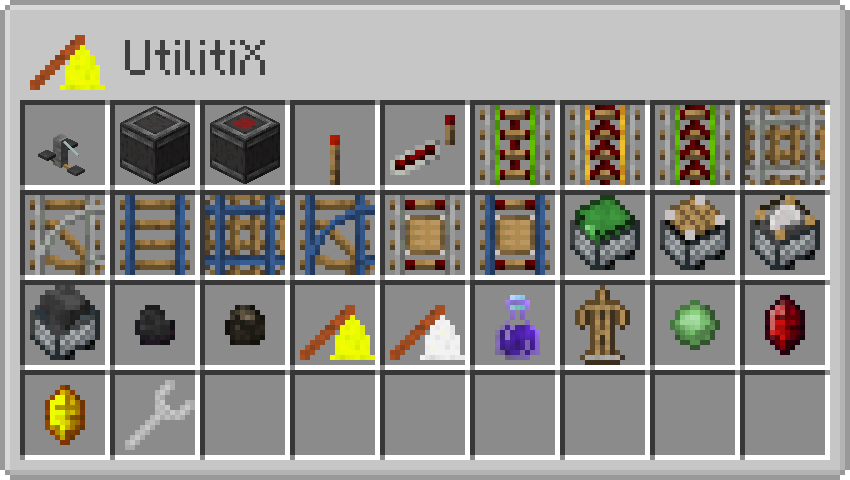
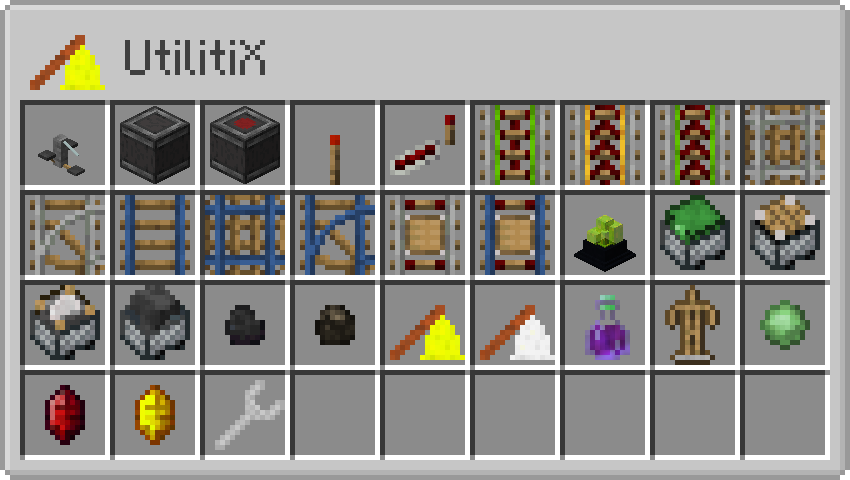
minor improvements to xp crystal

diff --git a/src/main/java/de/melanx/utilitix/content/experiencecrystal/BlockExperienceCrystal.java b/src/main/java/de/melanx/utilitix/content/experiencecrystal/BlockExperienceCrystal.java
@@ -1,8 +1,10 @@
 package de.melanx.utilitix.content.experiencecrystal;
 
 import de.melanx.utilitix.registration.ModBlocks;
+import io.github.noeppi_noeppi.libx.block.DirectionShape;
 import io.github.noeppi_noeppi.libx.mod.ModX;
 import io.github.noeppi_noeppi.libx.mod.registration.BlockGUI;
+import net.minecraft.block.Block;
 import net.minecraft.block.BlockState;
 import net.minecraft.client.gui.ScreenManager;
 import net.minecraft.client.renderer.RenderType;
@@ -10,6 +12,9 @@ import net.minecraft.client.renderer.RenderTypeLookup;
 import net.minecraft.entity.Entity;
 import net.minecraft.entity.item.ExperienceOrbEntity;
 import net.minecraft.inventory.container.ContainerType;
+import net.minecraft.item.BlockItemUseContext;
+import net.minecraft.state.StateContainer;
+import net.minecraft.state.properties.BlockStateProperties;
 import net.minecraft.util.ResourceLocation;
 import net.minecraft.util.math.BlockPos;
 import net.minecraft.util.math.shapes.ISelectionContext;
@@ -19,10 +24,11 @@ import net.minecraft.world.IBlockReader;
 import net.minecraft.world.World;
 
 import javax.annotation.Nonnull;
+import javax.annotation.Nullable;
 import java.util.function.Consumer;
 
 public class BlockExperienceCrystal extends BlockGUI<TileExperienceCrystal, ContainerExperienceCrystal> {
-    private static final VoxelShape SHAPE = VoxelShapes.or(
+    private static final DirectionShape SHAPE = new DirectionShape(VoxelShapes.or(
             makeCuboidShape(1, 0, 1, 15, 1, 15),
             makeCuboidShape(2, 1, 2, 14, 2, 14),
             makeCuboidShape(3, 2, 3, 13, 6, 13),
@@ -33,7 +39,7 @@ public class BlockExperienceCrystal extends BlockGUI<TileExperienceCrystal, Cont
             makeCuboidShape(4, 6, 4, 8, 12, 8),
             makeCuboidShape(5, 7.5, 9, 7, 13, 11),
             makeCuboidShape(4.5, 5.5, 8.5, 7.5, 7.5, 11.5)
-    );
+    ));
 
     public BlockExperienceCrystal(ModX mod, ContainerType<ContainerExperienceCrystal> containertype, Properties properties) {
         super(mod, TileExperienceCrystal.class, containertype, properties);
@@ -43,24 +49,6 @@ public class BlockExperienceCrystal extends BlockGUI<TileExperienceCrystal, Cont
     public void registerClient(ResourceLocation id, Consumer<Runnable> defer) {
         ScreenManager.registerFactory(ModBlocks.experienceCrystal.container, ScreenExperienceCrystal::new);
         RenderTypeLookup.setRenderLayer(this, RenderType.getTranslucent());
-    }
-
-    @Override
-    public void onReplaced(@Nonnull BlockState state, @Nonnull World world, @Nonnull BlockPos pos, @Nonnull BlockState newState, boolean isMoving) {
-        if (!world.isRemote) {
-            while (true) {
-                TileExperienceCrystal tile = this.getTile(world, pos);
-                int xp = Math.min(tile.getXp(), Short.MAX_VALUE);
-                if (xp <= 0) {
-                    break;
-                }
-
-                tile.subtractXp(xp);
-                world.addEntity(new ExperienceOrbEntity(world, pos.getX() + world.rand.nextDouble(), pos.getY() + world.rand.nextDouble(), pos.getZ() + world.rand.nextDouble(), xp));
-            }
-        }
-
-        super.onReplaced(state, world, pos, newState, isMoving);
     }
 
     @SuppressWarnings("deprecation")
@@ -80,10 +68,21 @@ public class BlockExperienceCrystal extends BlockGUI<TileExperienceCrystal, Cont
         }
     }
 
+    @Nullable
+    @Override
+    public BlockState getStateForPlacement(@Nonnull BlockItemUseContext context) {
+        return this.getDefaultState().with(BlockStateProperties.HORIZONTAL_FACING, context.getPlacementHorizontalFacing());
+    }
+
+    @Override
+    protected void fillStateContainer(@Nonnull StateContainer.Builder<Block, BlockState> builder) {
+        builder.add(BlockStateProperties.HORIZONTAL_FACING);
+    }
+
     @SuppressWarnings("deprecation")
     @Nonnull
     @Override
     public VoxelShape getShape(@Nonnull BlockState state, @Nonnull IBlockReader world, @Nonnull BlockPos pos, @Nonnull ISelectionContext context) {
-        return SHAPE;
+        return SHAPE.getShape(state.get(BlockStateProperties.HORIZONTAL_FACING));
     }
 }

diff --git a/src/main/java/de/melanx/utilitix/registration/ModBlocks.java b/src/main/java/de/melanx/utilitix/registration/ModBlocks.java
@@ -20,10 +20,12 @@ import net.minecraft.block.AbstractBlock;
 import net.minecraft.block.Block;
 import net.minecraft.block.Blocks;
 import net.minecraft.block.material.Material;
+import net.minecraft.block.material.MaterialColor;
 import net.minecraft.state.Property;
 import net.minecraft.state.properties.BlockStateProperties;
 import net.minecraft.state.properties.RailShape;
 import net.minecraft.util.Direction;
+import net.minecraftforge.common.ToolType;
 
 import javax.annotation.Nonnull;
 
@@ -45,5 +47,5 @@ public class ModBlocks {
     public static final Block reinforcedFilterRail = new BlockFilterRail(UtilitiX.getInstance(), true, AbstractBlock.Properties.from(Blocks.RAIL));
     public static final Block pistonControllerRail = new BlockPistonControllerRail(UtilitiX.getInstance(), false, AbstractBlock.Properties.from(Blocks.ACTIVATOR_RAIL)) { @Nonnull @Override public Property<RailShape> getShapeProperty() { return BlockStateProperties.RAIL_SHAPE_STRAIGHT; }};
     public static final Block reinforcedPistonControllerRail = new BlockPistonControllerRail(UtilitiX.getInstance(), true, AbstractBlock.Properties.from(Blocks.ACTIVATOR_RAIL)) { @Nonnull @Override public Property<RailShape> getShapeProperty() { return ModProperties.RAIL_SHAPE_FLAT_STRAIGHT; }};
-    public static final BlockGUI<TileExperienceCrystal, ContainerExperienceCrystal> experienceCrystal = new BlockExperienceCrystal(UtilitiX.getInstance(), ContainerBase.createContainerType(ContainerExperienceCrystal::new), AbstractBlock.Properties.create(Material.ROCK));
+    public static final BlockGUI<TileExperienceCrystal, ContainerExperienceCrystal> experienceCrystal = new BlockExperienceCrystal(UtilitiX.getInstance(), ContainerBase.createContainerType(ContainerExperienceCrystal::new), AbstractBlock.Properties.create(Material.ROCK, MaterialColor.BLACK).hardnessAndResistance(3, 7).harvestTool(ToolType.PICKAXE));
 }

diff --git a/src/main/java/de/melanx/utilitix/data/RecipeProvider.java b/src/main/java/de/melanx/utilitix/data/RecipeProvider.java
@@ -111,6 +111,17 @@ public class RecipeProvider extends RecipeProviderBase {
                 .addIngredient(Tags.Items.SLIMEBALLS)
                 .addCriterion("has_item", hasItem(Tags.Items.SLIMEBALLS))
                 .build(consumer);
+
+        ShapedRecipeBuilder.shapedRecipe(ModBlocks.experienceCrystal)
+                .patternLine("geg")
+                .patternLine("exe")
+                .patternLine("ccc")
+                .key('g', Tags.Items.GLASS_LIME)
+                .key('e', Tags.Items.GEMS_EMERALD)
+                .key('x', Items.EXPERIENCE_BOTTLE)
+                .key('c', Items.BLACK_CONCRETE)
+                .addCriterion("has_item", hasItem(Items.EXPERIENCE_BOTTLE))
+                .build(consumer);
     }
 
     private void createRedstoneRecipes(Consumer<IFinishedRecipe> consumer) {

diff --git a/src/main/java/de/melanx/utilitix/data/LootTableProvider.java b/src/main/java/de/melanx/utilitix/data/LootTableProvider.java
@@ -1,6 +1,7 @@
 package de.melanx.utilitix.data;
 
 import de.melanx.utilitix.UtilitiX;
+import de.melanx.utilitix.registration.ModBlocks;
 import io.github.noeppi_noeppi.libx.data.provider.BlockLootProviderBase;
 import net.minecraft.data.DataGenerator;
 
@@ -12,6 +13,6 @@ public class LootTableProvider extends BlockLootProviderBase {
 
     @Override
     protected void setup() {
-        
+        this.drops(ModBlocks.experienceCrystal, this.copyNBT("Xp"));
     }
 }

diff --git a/README.md b/README.md
@@ -20,7 +20,7 @@ A lot of items, nice to have
 
 ## Tiles/Blocks
 - [ ] 3x3 entity builder
-- [ ] "XP Obelisk" (absorbs XP orbs, has a GUI like Ender IO obelisk had)
+- [x] "XP Obelisk" (absorbs XP orbs, has a GUI like Ender IO obelisk had)
 - [ ] Advanced Enchanter (only uses required XP, not levels)
 - [x] Block that reads comparator output from above/below
 - [x] Weak redstone torch (Redstone torch that powers block above weak instead of strong because of torch burnout)
